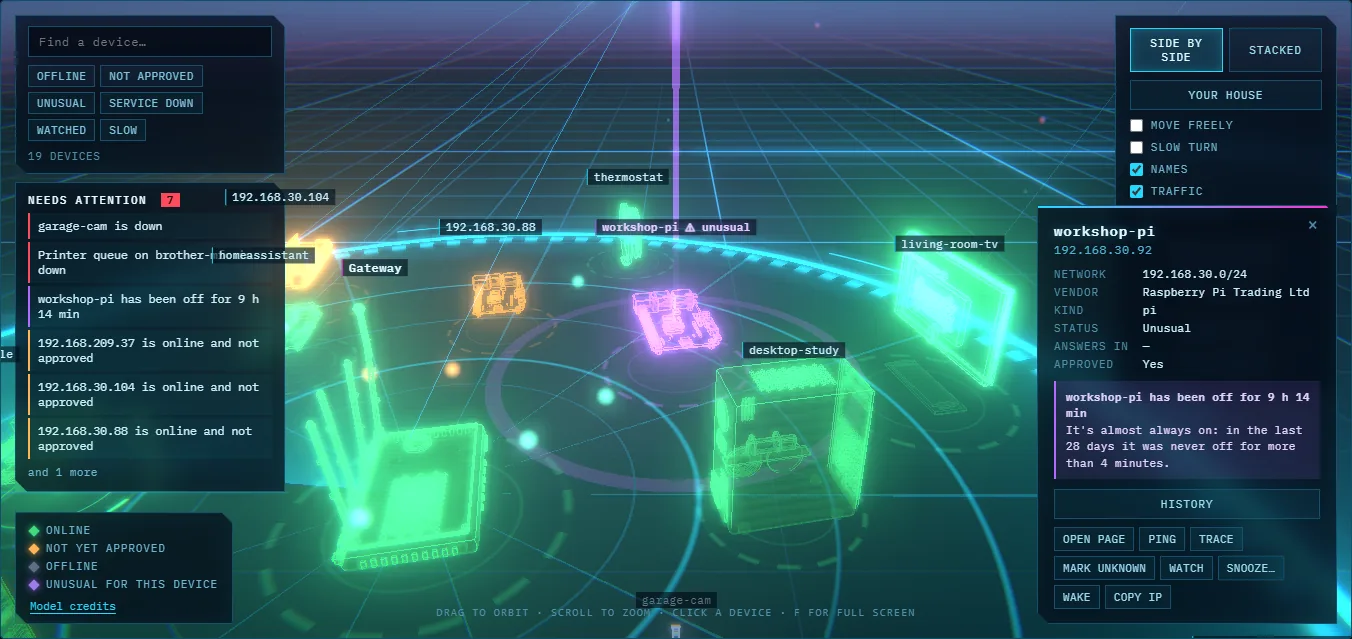
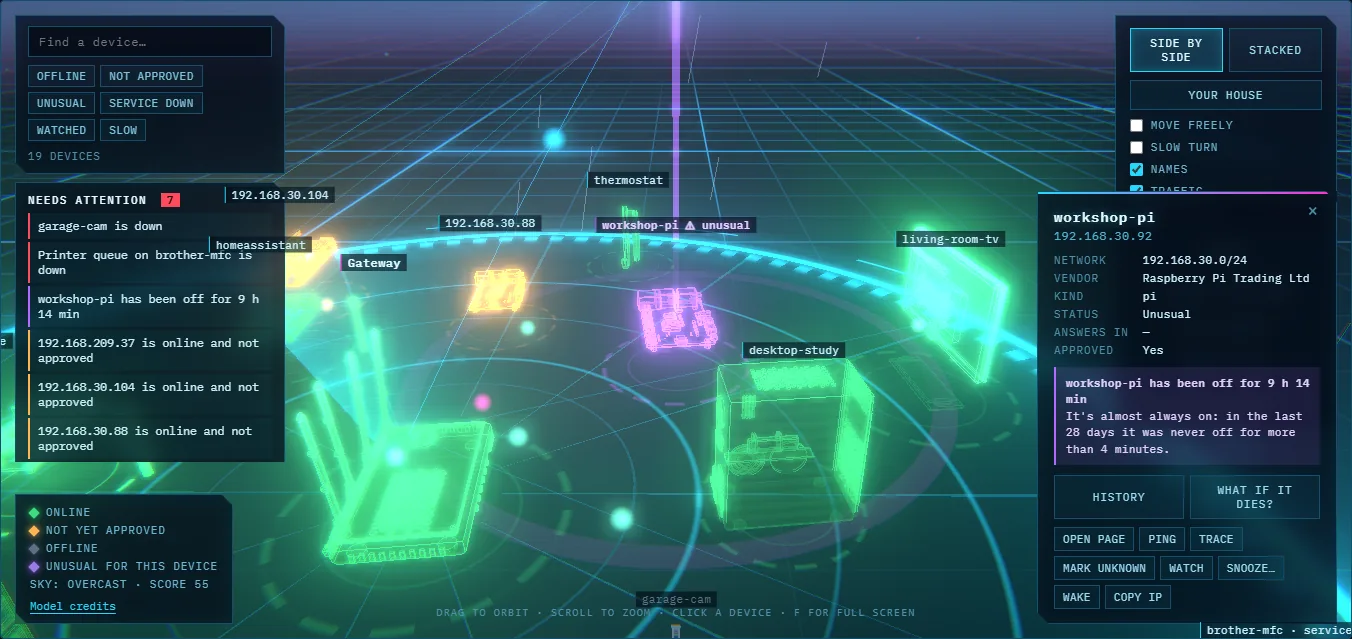
Refresh the README screenshots for 2.24.0, with the 3D tab's new layers
The dashboard, Map, floor plan, Internet, Settings, Network services and Service watch pictures and the 3D and house ones retaken at 2.24.0. The 3D pictures show the Replay and Today's briefing buttons and the sky line; three new ones show the usage skyline, the exposure layer and what-if outage. Alt text and the 3D paragraph updated. Two small touches to the 3D tab came out of taking them: the usage list sits clear of the towers, and what a dead switch cuts off is a brighter red.

diff --git a/BAMF/wwwroot/css/dashboard.css b/BAMF/wwwroot/css/dashboard.css
@@ -2023,7 +2023,7 @@
   .v3d-act { font: inherit; font-size: 10.5px; text-transform: uppercase; letter-spacing: .06em; color: #9fdcf0; background: rgba(38, 217, 255, .06); border: 1px solid #14506b; padding: 4px 8px; cursor: pointer; border-radius: 0; }
   .v3d-act:hover { border-color: #26d9ff; color: #e8fbff; }
   /* the usage skyline's list, the exposure badges, the outage banner, the briefing caption, the weather's flash and the replay's marks */
-  .v3d-usage { left: 284px; bottom: 14px; width: 200px; padding: 10px 12px; }
+  .v3d-usage { right: 326px; bottom: 14px; width: 200px; padding: 10px 12px; }
   .v3d-usage[hidden], .v3d-outage[hidden], .v3d-brief[hidden] { display: none; }
   .v3d-usage h3, .v3d-outage h3, .v3d-brief h3 { margin: 0 0 6px; font-size: 11px; text-transform: uppercase; letter-spacing: .12em; color: #e8fbff; font-weight: 600; }
   .v3d-usage ul { list-style: none; margin: 6px 0 0; padding: 0; display: flex; flex-direction: column; gap: 3px; }

diff --git a/README.md b/README.md
@@ -231,7 +231,7 @@ traffic, busier for the devices using the most. Drag to turn it, scroll to zoom,
 **History** button that takes you to its row on the Devices tab. **Stacked** puts the networks on top of each other as floors, and **Full screen**
 gives it the whole display.
 
-![The 3D tab: a night sky over a neon floor grid with a glowing globe for the internet at the top, ringed by small glowing satellites, one of them magenta and marked as new, each joined by faint beams to the devices that talk to it. Two circular platforms below are joined to the globe by curved lines of light with small pulses of traffic, the larger for the main network and the smaller for a guest network. Each device stands on its platform as a model of what it is, with its name floating beside it. One is purple with a beam of light above it and a label marked unusual, and the printer's name says its service is down. At the top left is a search box with chips for Offline, Not approved, Unusual, Service down, Watched and Slow, and under it a Needs attention list that says garage-cam is down, that a printer's service is down, that workshop-pi has been off for 9 hours, and that three devices are online and not approved. A panel in the top right holds Side by side, Stacked, Your house, Move freely, Slow turn, Names, Traffic, More to see, Replay the day, Walk around, Reset view and Full screen](docs/3d.webp)
+![The 3D tab: a night sky over a neon floor grid with a glowing globe for the internet at the top, ringed by small glowing satellites, one of them magenta and marked as new, each joined by faint beams to the devices that talk to it. Two circular platforms below are joined to the globe by curved lines of light with small pulses of traffic, the larger for the main network and the smaller for a guest network. Each device stands on its platform as a model of what it is, with its name floating beside it. One is purple with a beam of light above it and a label marked unusual, and the printer's name says its service is down. At the top left is a search box with chips for Offline, Not approved, Unusual, Service down, Watched and Slow, and under it a Needs attention list that says garage-cam is down, that a printer's service is down, that workshop-pi has been off for 9 hours, and that three devices are online and not approved. A panel in the top right holds Side by side, Stacked, Your house, Move freely, Slow turn, Names, Traffic, More to see, Replay, Today's briefing, Walk around, Reset view and Full screen. Under the key at the bottom left a line says the sky is overcast with the network score, and faint rain falls](docs/3d.webp)
 
 ![One device picked in the 3D tab: the camera has flown in over the main network's platform to a purple Raspberry Pi with a beam above it, and a card at the right gives its address, network, vendor, kind, status Unusual, whether it is approved, a purple note that it has been off for 9 hours when it is almost always on, a History button, and a row of action buttons: Open page, Ping, Trace, Mark unknown, Watch, Snooze, Wake and Copy IP. The search box and the Needs attention list stay at the left](docs/3d-device.webp)
 
@@ -249,9 +249,27 @@ are behind it. **Place devices** in the house puts a device on a plan by clickin
 
 More can be switched on under **More to see**: **Your house** stands the floor plans you drew up as glowing walls with each device in the room you
 placed it in; a tower beside a device for each service the service watch checks on it; devices that are slow to answer riding higher and flickering;
-every outside network devices talk to as a satellite round the internet, magenta when it's new; red rays from a device that is scanning; **Replay the
-day**, which plays the last 24 hours back in a minute; **Walk around** at ground level; a headset mode where the browser offers one; and an optional
-quiet hum and soft blips. Each has its own switch.
+every outside network devices talk to as a satellite round the internet, magenta when it's new; red rays from a device that is scanning; **Replay**, which
+plays the last day, 3, 7 or 30 days back, with marks along its slider for outages and arrivals; **Walk around** at ground level; a headset mode where the
+browser offers one; and an optional quiet hum and soft blips. Each has its own switch.
+
+Five newer things are there as well. A **usage skyline** stands a tower beside each device for what it has moved in about 2 hours, 24 hours or 7 days, cyan
+for what it took in and magenta for what it sent out:
+
+![The usage skyline in the 3D tab: beside each device on the main platform stands a glowing tower, cyan for data taken in and magenta for data sent out, with the total above the biggest ones: 49 GB for the NAS, 25 GB for the gateway, 22 GB for the living room TV and 10 GB for the study desktop. A Usage skyline panel at the bottom right has a menu set to 24 hours, lists those five devices with their totals and says 127 GB in all](docs/3d-usage.webp)
+
+The **exposure** layer rings the devices with something worth a look and says what in a badge: Telnet, FTP, VNC or Remote Desktop open, a certificate that has
+expired or is about to, or a router that answers UPnP. It marks the gateway and the DHCP and DNS servers by their jobs, and dims everything with nothing to flag:
+
+![The exposure layer in the 3D tab with the camera flown in over the main platform to a garage camera, ringed in red with a Telnet open badge under it. Other devices carry badges too: a red Remote Desktop open on the study desktop, a red UPnP and DHCP and DNS badges on the gateway, an amber certificate soon and a red certificate expired. Devices with nothing to flag are dimmed. The sky is stormy, as the line under the key says. A card at the right gives the camera's address, network, vendor and status, and the line Exposure: Telnet is open, port 23, with a What if it dies button](docs/3d-exposure.webp)
+
+**What if it dies?**, on any device's card, shows what would stop if it did, and changes nothing. A switch takes down what is plugged into it, and the gateway
+leaves its whole network without the internet:
+
+![What if it dies in the 3D tab: a banner at the top says that if switch-poe-8 died, 4 devices would lose the network, 4 watched services would go down, such as NAS sign-in on nas, and 2 watched devices would show offline and alert. On the main platform the switch glows bright red and the devices that depend on it are dark red while the rest stay green, and the guest network's platform is untouched. The banner has an End simulation button](docs/3d-outage.webp)
+
+**Today's briefing** flies the camera through what has happened in the last day, worst first, with a caption at each stop. **Weather** lets the sky follow the
+network score, from clear to a storm with lightning and a flash when an alert arrives, and unticking it gives the plain night sky.
 
 The same scene, with the camera on its own, is [the grid screen saver](#the-grid-for-the-wall).
 
